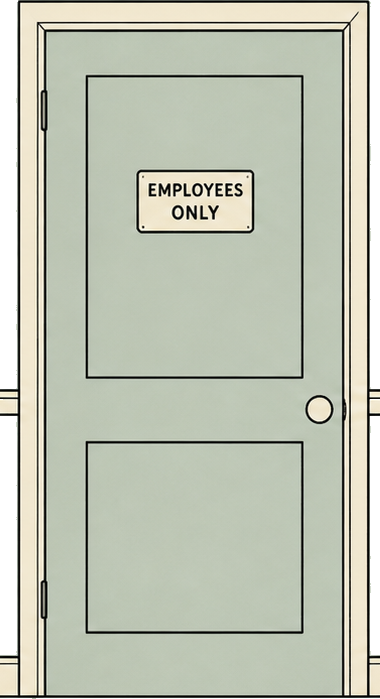
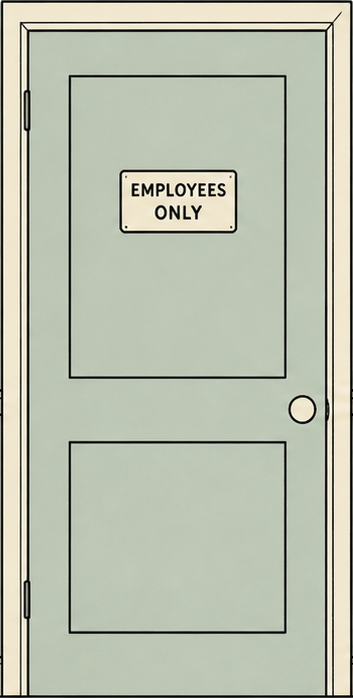
Trim the nubs off the door and stand it on the floor
Two things Carl spotted on the back wall's door.

The frame had four little tabs sticking out of it. They are the dado rail and
the skirting, which run THROUGH the door frame in the drawing — the extractor
floods the background inward from the crop's edges, and a flood stops at any
outline it meets, so the stubs joined to the frame survived. On the wall they
read as pegs on a door frame.

The frame's own columns run the full height of the sprite and a stub's do not,
which is the whole discriminator and needs no hand-typed rectangle: 380x699
becomes 353x698, and the silhouette is a plain rectangle again.

The door also floated. Its centre was a y that happened to land near the floor,
so it sat a few pixels up and read as a lip you would have to step over. It now
says `foot: true` and the placement derives the centre from the height, which is
the version that survives the art being redrawn.

Claude-Session: https://claude.ai/code/session_01DvpH1vx2V3jqVN8Reac6Pi

diff --git a/game.js b/game.js
@@ -1403,7 +1403,12 @@ function drawWallProps(wx, wy, ww, wh) {
         if (!art) continue;
         const h = wh * pr.h;
         const w = h * (art.width / art.height);
-        MAIN_CTX.drawImage(art, wx + ww * pr.x - w / 2, wy + wh * pr.y - h / 2, w, h);
+        // A door stands ON the floor. Saying that, rather than giving it a y
+        // that happens to land there, is what keeps it standing there when the
+        // art is redrawn a few pixels taller — a hovering door reads as a lip
+        // you would have to step over.
+        const cy = pr.foot ? wh - h / 2 : wh * pr.y;
+        MAIN_CTX.drawImage(art, wx + ww * pr.x - w / 2, wy + cy - h / 2, w, h);
     }
 }
 
@@ -1737,7 +1742,7 @@ const BIOMES = [
         // fraction of the wall's. Nothing here is in pixels, so the whole
         // dressing survives a change of tilt, of horizon, or of panel count.
         wallProps: [
-            { art: "door",      x: 0.117, y: 0.519, h: 0.848 },
+            { art: "door",      x: 0.117, foot: true, h: 0.848 },
             { art: "switch",    x: 0.241, y: 0.471, h: 0.081 },
             { art: "poster",    x: 0.328, y: 0.311, h: 0.311 },
             { art: "clock",     x: 0.683, y: 0.203, h: 0.185 },
